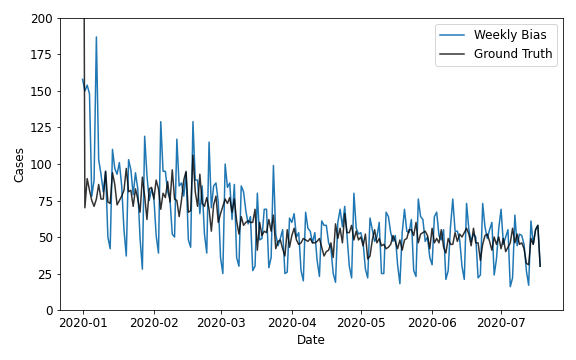
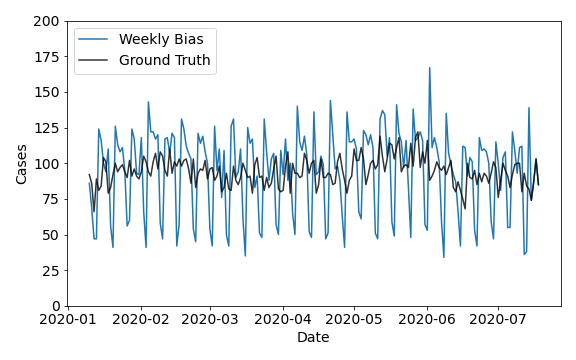
Updated README (#20)

Changed region(s): [[0.0, 0.0306, 1.0, 0.9778]]

diff --git a/README.md b/README.md
@@ -1,3 +1,68 @@
 # Periodic Sampling (COVID-19 Data)
 
-Utilising Gibbs Sampling to explore periodic data trends in Covid-19 case data
+This package utilises [Bayesian Inference](https://en.wikipedia.org/wiki/Bayesian_inference) and [Gibbs Sampling](https://en.wikipedia.org/wiki/Gibbs_sampling) to explore periodic data trends in real or synthetic Covid-19 case data.
+
+## Data Files
+
+Timeseries from real Covid-19 data may be used, or generated synthetically from a renewal model
+
+### Real Data
+
+We import Covid-19 case and death data from the [John Hopkins Database](https://coronavirus.jhu.edu/about). This data uploaded into separate `.csv` files on a daily basis, and so [routines](periodic_sampling/analysis/country_data.py in the analysis module are provided to generate location-specific files over the history of the pandemic.
+
+For example:
+
+```python
+from analysis import generate_location_df
+
+input_dir = "COVID-19/csse_covid_19_data/csse_covid_19_daily_reports/"
+location_key = "England, United Kingdom"
+
+country_df = generate_location_df(input_dir, location_key)
+country_df.to_csv("data/England_data.csv")
+```
+
+More detailed examples (along with cleaning procedures for the data) are given in [`data_trends.ipynb`](periodic_sampling/data_trends.ipynb).
+Currently these procedures are not packaged into a separate method, but this may be updated in the future.
+
+Further information about this data (such as collection methods) can be found in a dedicated [`README`](data/README.md).
+
+### Periodic Reporting Trends
+
+IN this data we typically observe a strong oscilatory trend, as depicted in both the cases and death data from England, UK. The raw daily data is given in grey, with a 7-day moving average (typically used in most publications) superimposed in colour.
+
+![UK Covid Data](images/data_trends/daily_data_EnglandUnitedKingdom.png)
+
+There are consistent over/under reporting trends on particular weekdays across the duration of the pandemic. These may be quantified through a reporting factor, given by the ratio of observed cases on a given day to the 7-day average about that day. The distribution of reporting factor for each dataset is given below:
+
+![Weekday Bias Violin Plot](images/data_trends/daily_violin_EnglandUnitedKingdom.png)
+
+### Synthetic Data
+
+It is also possible to generate synthetic pandemic data using a [renewal model framework](periodic_sampling/synthetic_data/renewal_model.py). Alongside this are provided various [reporter functions](periodic_sampling/synthetic_data/biased_reporter.py), which can return/save this data in `.csv` format, as well as applying various reporting biases to replicate the trends described above.
+
+An example of this process is given below:
+
+```python
+from synthetic_data import RenewalModel, Reporter
+
+model = RenewalModel(R0=0.99)
+model.simulate(T=200, N_0=500)
+
+rep = Reporter(model.case_data)
+truth_df = rep.unbiased_report()
+bias_df = rep.fixed_bias_report(bias = [0.5, 1.4, 1.2, 1.1, 1.1, 1.1, 0.6],
+                                multinomial_dist=True)
+```
+
+This would generate the following data:
+
+![Synthetic Data Example](images/synthetic_examples/biased_output_T_200_N0_500.png)
+
+All functions have complete docstrings to record their functionality and expected arguments.
+
+## Inference Methods
+
+Both Metropolis-Hastings and Gibbs sampling methods are implemented for use in Bayesian inference. These have separate parameter and sampling classes, but a combined (_'mixed'_) sampling method is also implemented to allow inference on multiple parameters of different types.
+
+This flexible implementation is applicable to a wide range of problems, with some examples from Ben Lambert's "[A Student's Guide to Bayesian Statistics](https://study.sagepub.com/lambert)" given in [`exampler.ipynb`](periodic_sampling/gibbs_sampler/exampler.ipynb).
